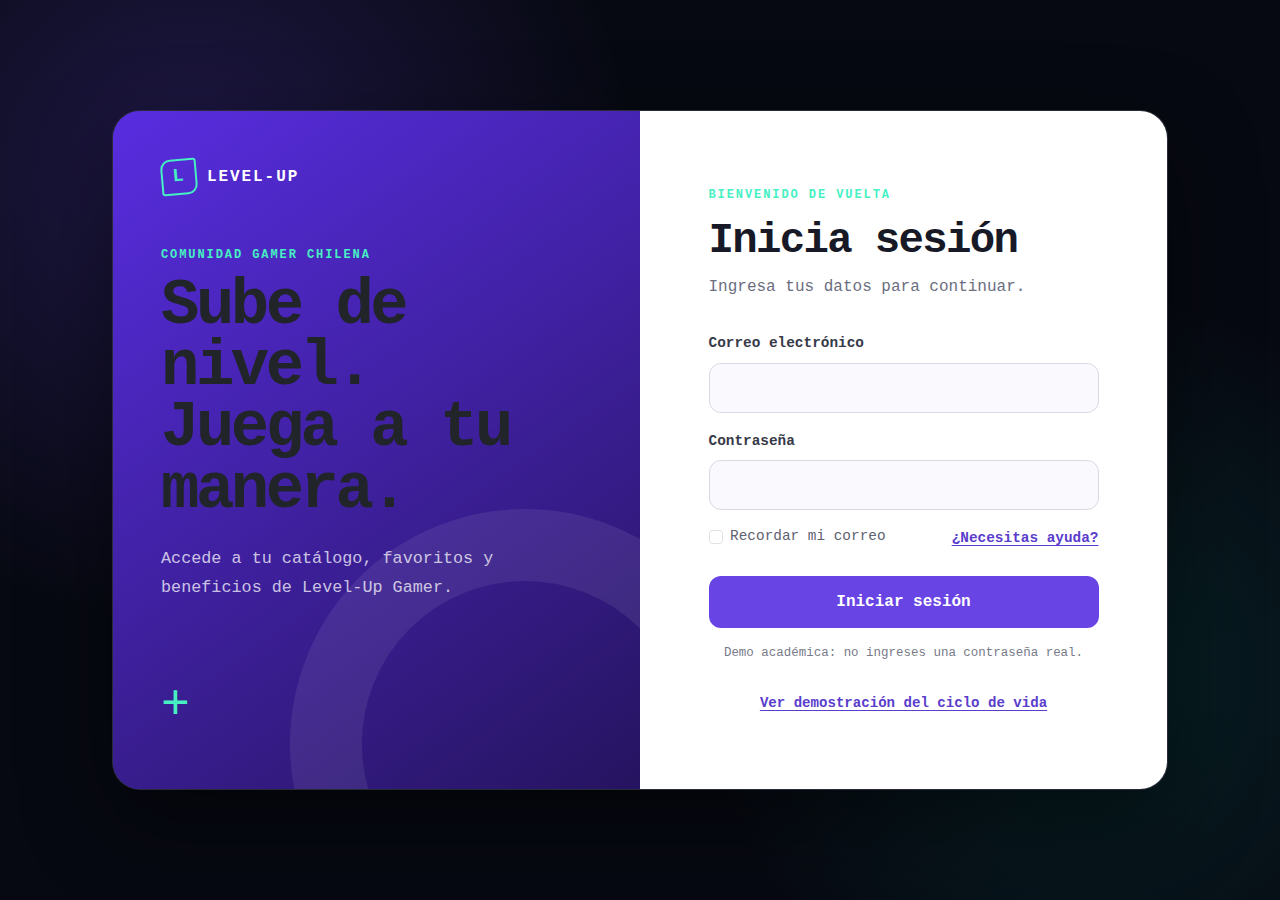
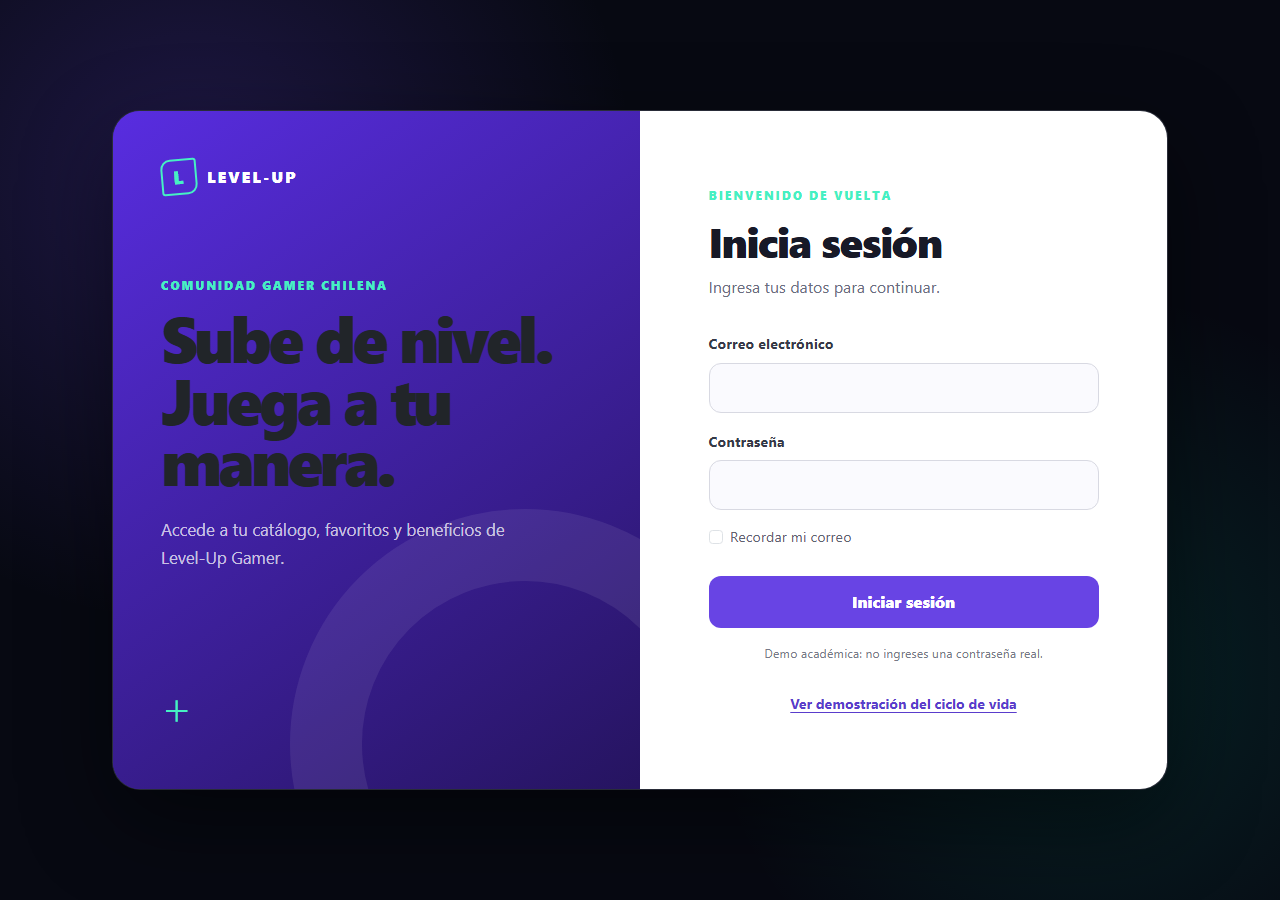
docs: cerrar auditoria final de guias 10 a 12

diff --git a/src/styles/index.css b/src/styles/index.css
@@ -11,6 +11,7 @@
 body {
   min-width: 320px;
   min-height: 100vh;
+  min-height: 100dvh;
   margin: 0;
   background:
     radial-gradient(circle at 15% 20%, rgba(115, 76, 255, 0.22), transparent 34%),
@@ -22,7 +23,10 @@ a { color: #a997ff; text-underline-offset: 0.2em; }
 a:hover { color: #c9bfff; }
 
 .auth-shell,
-.learning-shell { min-height: 100vh; }
+.learning-shell {
+  min-height: 100vh;
+  min-height: 100dvh;
+}
 
 .auth-shell { display: grid; align-items: center; padding: 24px 0; }
 .auth-container { max-width: 1080px; }
@@ -93,7 +97,7 @@ a:hover { color: #c9bfff; }
   text-transform: uppercase;
 }
 
-.auth-showcase h1 {
+.auth-showcase__title {
   margin-bottom: 24px;
   font-size: clamp(2.5rem, 5vw, 4.6rem);
   font-weight: 850;
@@ -120,7 +124,7 @@ a:hover { color: #c9bfff; }
 
 .auth-form-content { width: min(100%, 390px); }
 
-.auth-form-content h2 {
+.auth-form-content h1 {
   margin-bottom: 8px;
   font-size: clamp(2rem, 4vw, 2.65rem);
   font-weight: 820;
@@ -249,9 +253,9 @@ a:focus-visible {
 @media (max-width: 575.98px) {
   .auth-shell { display: block; padding: 0; }
   .auth-container { padding: 0; }
-  .auth-card { min-height: 100vh; border: 0; border-radius: 0; }
+  .auth-card { min-height: 100vh; min-height: 100dvh; border: 0; border-radius: 0; }
   .auth-showcase { display: none; }
-  .auth-form-column { min-height: 100vh; padding: 36px 24px; }
+  .auth-form-column { min-height: 100vh; min-height: 100dvh; padding: 36px 24px; }
   .app-logo--compact { display: inline-flex; }
   .login-options { align-items: flex-start; flex-direction: column; gap: 10px; }
   .learning-shell { padding-top: 22px; }

diff --git a/src/components/organisms/LoginForm.jsx b/src/components/organisms/LoginForm.jsx
@@ -6,9 +6,26 @@ import FormField from '../molecules/FormField.jsx';
 import LoginOptions from '../molecules/LoginOptions.jsx';
 
 const INITIAL_FIELDS = { email: '', password: '' };
+const EMAIL_STORAGE_KEY = 'levelUpGamer.email';
 
 function getStoredEmail() {
-  return localStorage.getItem('levelUpGamer.email') ?? '';
+  try {
+    return localStorage.getItem(EMAIL_STORAGE_KEY) ?? '';
+  } catch {
+    return '';
+  }
+}
+
+function updateStoredEmail(rememberEmail, email) {
+  try {
+    if (rememberEmail) {
+      localStorage.setItem(EMAIL_STORAGE_KEY, email);
+    } else {
+      localStorage.removeItem(EMAIL_STORAGE_KEY);
+    }
+  } catch {
+    // El formulario sigue funcionando si el navegador bloquea el almacenamiento.
+  }
 }
 
 function validate(fields) {
@@ -77,11 +94,8 @@ function LoginForm() {
     setAttempts((current) => current + 1);
     setErrors({});
 
-    if (rememberEmail) {
-      localStorage.setItem('levelUpGamer.email', fields.email.trim());
-    } else {
-      localStorage.removeItem('levelUpGamer.email');
-    }
+    updateStoredEmail(rememberEmail, fields.email.trim());
+    setFields((current) => ({ ...current, password: '' }));
 
     setMessage('Formulario validado. La autenticación real se conectará al backend en una etapa posterior.');
   }

diff --git a/src/components/templates/AuthTemplate.jsx b/src/components/templates/AuthTemplate.jsx
@@ -14,7 +14,7 @@ function AuthTemplate({ children }) {
             <AppLogo />
             <div className="auth-showcase__content">
               <p className="eyebrow">Comunidad gamer chilena</p>
-              <h1>Sube de nivel.<br />Juega a tu manera.</h1>
+              <p className="auth-showcase__title">Sube de nivel.<br />Juega a tu manera.</p>
               <p>Accede a tu catálogo, favoritos y beneficios de Level-Up Gamer.</p>
             </div>
             <span className="auth-showcase__decoration" aria-hidden="true">+</span>
@@ -24,7 +24,7 @@ function AuthTemplate({ children }) {
             <div className="auth-form-content">
               <AppLogo compact />
               <p className="eyebrow">Bienvenido de vuelta</p>
-              <h2>Inicia sesión</h2>
+              <h1>Inicia sesión</h1>
               <p className="auth-form-content__intro">Ingresa tus datos para continuar.</p>
               {children}
               <Link className="lifecycle-link" to="/ciclo-de-vida">Ver demostración del ciclo de vida</Link>

diff --git a/index.html b/index.html
@@ -4,6 +4,7 @@
     <meta charset="UTF-8" />
     <meta name="viewport" content="width=device-width, initial-scale=1.0" />
     <meta name="description" content="Acceso a Level-Up Gamer, proyecto académico de DSY1104." />
+    <meta name="theme-color" content="#111522" />
     <link rel="icon" type="image/svg+xml" href="/favicon.svg" />
     <title>Level-Up Gamer</title>
   </head>

diff --git a/src/components/molecules/LoginOptions.jsx b/src/components/molecules/LoginOptions.jsx
@@ -5,7 +5,6 @@ function LoginOptions({ checked, onChange }) {
   return (
     <div className="login-options mb-4">
       <Form.Check checked={checked} id="remember-access" label="Recordar mi correo" onChange={onChange} type="checkbox" />
-      <a href="mailto:soporte@levelupgamer.cl">¿Necesitas ayuda?</a>
     </div>
   );
 }

diff --git a/README.md b/README.md
@@ -1,6 +1,6 @@
 # Level-Up Gamer
 
-Aplicación académica desarrollada para DSY1104 · Desarrollo Fullstack II. Esta etapa implementa el acceso responsivo y una demostración verificable del ciclo de vida de componentes en React.
+Aplicación académica desarrollada para **DSY1104 · Desarrollo Fullstack II**. Esta entrega aplica los contenidos de las guías 10, 11 y 12 mediante React, componentes reutilizables, estado, efectos, Atomic Design y una interfaz de acceso responsiva.
 
 ## Equipo
 
@@ -14,7 +14,12 @@ Aplicación académica desarrollada para DSY1104 · Desarrollo Fullstack II. Est
 
 **Level-Up Gamer**
 
-Level-Up Gamer es una tienda en línea orientada a la comunidad gamer chilena. La aplicación permitirá acceder a una cuenta, explorar productos, administrar favoritos y realizar compras. En etapas posteriores incorporará catálogo, carrito y funciones administrativas.
+La Guía 12 solicita escoger uno de los tres casos semestrales: Huerto Hogar, Level-Up Gamer o Pastelería Mil Sabores. El estudiante seleccionó **Level-Up Gamer**, por lo que la elección no proviene del ejemplo PetSocial ni de otro proyecto.
+
+Level-Up Gamer es una tienda en línea orientada a la comunidad gamer chilena.
+La aplicación permitirá acceder a una cuenta, explorar productos y administrar favoritos.
+También permitirá seleccionar artículos y realizar compras desde una interfaz responsiva.
+En etapas posteriores incorporará catálogo, carrito y funciones administrativas.
 
 ## Funcionalidades implementadas
 
@@ -24,6 +29,16 @@ Level-Up Gamer es una tienda en línea orientada a la comunidad gamer chilena. L
 - Demostración de montaje, actualización y desmontaje con `useEffect`.
 - Navegación con React Router.
 - Diseño responsivo para móvil, tablet y escritorio.
+
+## Clasificación Atomic Design del acceso
+
+| Nivel | Componentes | Responsabilidad |
+| --- | --- | --- |
+| Átomos | `AppLogo`, `TextInput`, `PrimaryButton` | Elementos indivisibles y reutilizables de interfaz. |
+| Moléculas | `FormField`, `LoginOptions` | Agrupan controles con una responsabilidad concreta. |
+| Organismo | `LoginForm` | Sección funcional completa del formulario de acceso. |
+| Template | `AuthTemplate` | Define la distribución responsiva sin contener datos de una persona usuaria. |
+| Página | `LoginPage` | Compone el template y el organismo para una ruta real. |
 
 ## Estructura del proyecto
 
@@ -45,7 +60,9 @@ src/
 - React y Vite.
 - React Bootstrap y Bootstrap.
 - React Router.
-- ESLint/Oxlint y PropTypes.
+- Oxlint y PropTypes.
+
+Requisito local: Node.js `20.19` o posterior compatible con Vite 8.
 
 ## Ejecución
 
@@ -70,6 +87,8 @@ npm run build
 
 La investigación y el procedimiento de comprobación están en [`docs/investigacion-ciclo-de-vida.md`](docs/investigacion-ciclo-de-vida.md).
 
+La matriz de cumplimiento y los resultados de la auditoría final están en [`docs/auditoria-final.md`](docs/auditoria-final.md).
+
 ## Evidencias responsivas
 
 - [Vista móvil · 375 px](docs/evidencias/login-375px.png)
@@ -80,7 +99,7 @@ Las capturas fueron generadas desde el proyecto en ejecución con un navegador r
 
 ## Material complementario
 
-El enlace público de Google Drive se agregará cuando se cree la carpeta de documentos del semestre.
+> **Pendiente externo:** crear en la cuenta del estudiante una carpeta llamada `Hueichapan - Level-Up Gamer`, configurarla como “Cualquiera con el enlace puede ver” y reemplazar esta nota por su URL. No se publica una dirección ficticia porque la Guía 12 exige un enlace real y verificable.
 
 ## Repositorio
 
@@ -88,4 +107,8 @@ https://github.com/vicenteehueichapan-boop/ProyectoAplicacionesMoviles
 
 ## Seguridad de la demostración
 
-El formulario no realiza autenticación real. No se deben ingresar contraseñas personales. La conexión con un backend queda fuera del alcance de esta etapa.
+El formulario no realiza autenticación real. No se deben ingresar contraseñas personales. La contraseña no se persiste y se elimina del estado después de validar el formulario. La conexión con un backend queda fuera del alcance de esta etapa.
+
+## Recursos visuales
+
+`public/favicon.svg` es un SVG propio y específico de Level-Up Gamer. No pertenece a PetSocial, a los ejemplos de las guías ni a otro proyecto. El favicon es únicamente el pequeño ícono que el navegador muestra en la pestaña.

diff --git a/docs/auditoria-final.md b/docs/auditoria-final.md
@@ -1,0 +1,48 @@
+# Auditoría final de las guías 10, 11 y 12
+
+Fecha de revisión: 23 de septiembre de 2026.
+
+## Decisión del proyecto semestral
+
+La Guía 12 define tres casos válidos: Huerto Hogar, Level-Up Gamer y Pastelería Mil Sabores. El estudiante eligió **Level-Up Gamer**. PetSocial y TarjetaAlumno son solamente ejemplos pedagógicos de las guías y no forman parte de este repositorio.
+
+## Matriz de cumplimiento
+
+| Requisito | Evidencia | Estado |
+| --- | --- | --- |
+| React y JSX funcionando | `src/main.jsx`, `src/App.jsx` | Cumplido |
+| Componentes, props y estado | Componentes de `src/components`, estado en `LoginForm` y `LifecycleDemo` | Cumplido |
+| Investigación del ciclo de vida | `docs/investigacion-ciclo-de-vida.md` | Cumplido |
+| Efecto de montaje | `useEffect` con `[]` y registro en consola | Cumplido |
+| Efecto de actualización | Título sincronizado con `count` y `attempts` | Cumplido |
+| Limpieza al desmontar | `clearInterval` dentro del retorno de `useEffect` | Cumplido |
+| Al menos dos átomos | `AppLogo`, `TextInput`, `PrimaryButton` | Cumplido |
+| Al menos una molécula | `FormField`, `LoginOptions` | Cumplido |
+| Al menos un organismo | `LoginForm` | Cumplido |
+| Carpetas Atomic Design | `atoms`, `molecules`, `organisms`, `templates`, `pages` | Cumplido |
+| React Bootstrap | `Container`, `Row`, `Col`, `Form`, `Button`, `Alert` | Cumplido |
+| Bootstrap antes del CSS propio | Orden de importación en `src/main.jsx` | Cumplido |
+| Vista de 375 px | `docs/evidencias/login-375px.png` | Cumplido |
+| Vista de 768 px | `docs/evidencias/login-768px.png` | Cumplido |
+| Vista de 1280 px | `docs/evidencias/login-1280px.png` | Cumplido |
+| Navegación entre páginas | React Router y ruta comodín en `src/App.jsx` | Cumplido |
+| README obligatorio | Equipo, integrante, caso, descripción, estructura, tecnologías y ejecución | Cumplido |
+| Historial identificable | Commits firmados como Vicente Hueichapan con correo institucional | Cumplido |
+| Carpeta pública de Drive | Requiere creación y publicación desde la cuenta del estudiante | Pendiente externo |
+
+## Controles de calidad
+
+- Formulario controlado y validación sin manipulación manual del DOM.
+- Etiquetas asociadas a los campos y mensajes de error mediante atributos ARIA.
+- Foco visible, contraste, objetivos táctiles y reducción de movimiento.
+- Contraseña no persistida y eliminada del estado después de validar.
+- Acceso a almacenamiento local tolerante a bloqueos del navegador.
+- Redirección de rutas desconocidas hacia `/login`.
+- Sin HTML inyectado, `eval`, secretos, credenciales ni llaves privadas en el repositorio.
+- Favicon propio del caso; se eliminó el recurso social no utilizado del proyecto inicial.
+- Finales de línea e indentación normalizados mediante `.gitattributes` y `.editorconfig`.
+- Análisis estático y compilación de producción ejecutados sin errores.
+
+## Alcance
+
+La autenticación real y el backend no forman parte de estas guías. El mensaje del formulario lo indica para evitar presentar una validación local como una sesión autenticada. Las pruebas automatizadas con Jasmine y Karma se mencionan como contenido posterior en la Guía 12 y no son requisito de esta entrega.

diff --git a/docs/investigacion-ciclo-de-vida.md b/docs/investigacion-ciclo-de-vida.md
@@ -55,8 +55,14 @@ La limpieza se ejecuta al desmontar. Si el efecto tiene dependencias, también s
 5. Verificar que el título de la pestaña cambia.
 6. Volver al login y confirmar `temporizador limpiado al desmontar`.
 
+## Resultado de la prueba
+
+La prueba se realizó en un navegador real. Al abrir el login y la demostración se observó `el componente se montó`; al aumentar el contador cambió el título de la pestaña; y al abandonar la demostración se observó `temporizador limpiado al desmontar`.
+
+En desarrollo, `StrictMode` puede producir un ciclo adicional de montaje y limpieza. Es un comportamiento deliberado de React para detectar efectos incompletos, no un error del componente.
+
 ## Fuentes oficiales
 
-- React, referencia de `useEffect`: https://react.dev/reference/react/useEffect
-- React, sincronización con efectos: https://react.dev/learn/synchronizing-with-effects
-- React, ciclo de vida de los efectos reactivos: https://react.dev/learn/lifecycle-of-reactive-effects
+- [React: referencia de `useEffect`](https://react.dev/reference/react/useEffect)
+- [React: sincronización con efectos](https://react.dev/learn/synchronizing-with-effects)
+- [React: ciclo de vida de los efectos reactivos](https://react.dev/learn/lifecycle-of-reactive-effects)
